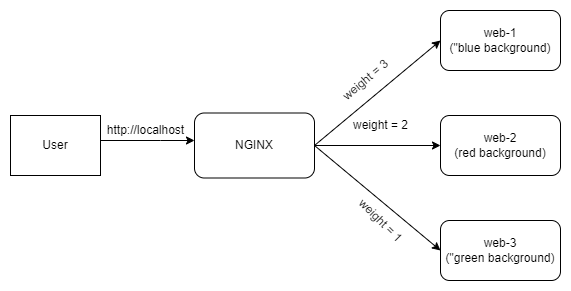
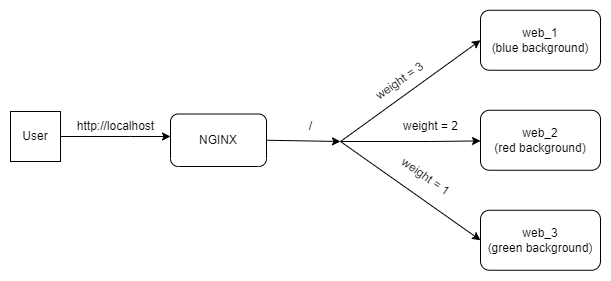
change pictures

diff --git a/1. Containerization/NguyenManhCuong/README.md b/1. Containerization/NguyenManhCuong/README.md
@@ -336,8 +336,8 @@ CMD ["python3", "app.py"]
 ```
 **The Dockerfile provided includes a few optimization techniques:**
 
-- <p align = "justify">This Dockerfile sets up a <strong>multi-stage</strong> build process. The first stage sets up the database tier, while the second stage sets up the web application tier. Using multi-stage builds like this can help keep the resulting Docker image small and efficient. The first stage is only used to <em>initialize</em> the database and is not included in the final image, so the final image only includes the necessary components to run the web application.</p>
-- <p align = "justify"><strong>Lightweight base image</strong>: The Dockerfile uses the <code>python:3.9-alpine3.17</code> base image, which is a lightweight version of the Python 3.9 image. This helps reduce the size of the resulting Docker image.</p>
+- <p align = "justify">This Dockerfile sets up a <strong>multi-stage</strong> build process. The first stage sets up the database tier, while the second stage sets up the web application tier. Using multi-stage builds like this can help keep the resulting Docker image small and efficient. The first stage is only used to <em>initialize</em> the database and is not included in the final image, so the final image only includes the necessary components to run the web application. </p>
+- <p align = "justify"><strong>Lightweight base image</strong>: The Dockerfile uses the <code>python:3.9-alpine3.17</code> base image, which is a lightweight version of the Python 3.9 image. This helps reduce the size of the resulting Docker image. In Docker Hub images <strong>python:3.9-alpine</strong> and <strong>python:3.9-alpine3.17</strong> have the same size, but the latter specifies the exact version of Alpine Linux used (version 3.17). This helps ensure stability and compatibility, reducing the risk of unexpected behavior. Using a specific version also aids reproducibility by ensuring consistent behavior across different environments.</p>
 - <p align = "justify"><strong>Use caching</strong>: Firsly copy the <code>requirement.txt</code> file into the container, This is because this file is unlikely to change frequently, so Docker can use the cached version from a previous build if it hasn't changed. The <code>COPY init.py init.py</code> and <code>COPY . .</code> commands will copy neccessary and frequently changed code into the container. It can save time and improve build times.</p>
 - <p align = "justify"><strong>Use the local cache when installing the specified packages</strong>: When installing dependencies using pip, the <code>--no-cache-dir</code> flag is used. This flag tells pip not to use the local cache when installing packages, which can help reduce the size of the Docker image.</p>
 - <p align = "justify"><strong>Remove unnecessary files</strong>: After installing dependencies using <code>pip</code>, the <code>rm</code> command is used to remove the <code>requirement.txt</code> file. This helps reduce the size of the Docker image by removing unnecessary files.
@@ -387,10 +387,8 @@ CMD ["python3", "app.py"]
 
 <p align = "center">
 <img src = "./images/loadbalancer.png" width = 500 height = 300> 
-<br>Picture 9. Reverse proxy using Nginx.
+<br>Picture 9. Load-balancer using Nginx.
 </p>
-
-
 
 **Docker-compose configuration**
 
@@ -402,20 +400,20 @@ CMD ["python3", "app.py"]
             container_name: mongodb
             restart: unless-stopped
             environment:
-            MONGO_DATABASE: flask
+                MONGO_DATABASE: flask
             ports:
-            - "27017:27017"
+                - "27017:27017"
             volumes:
-            - ./database:/data/db
+                - ./database:/data/db
             networks:
-            - backend
+                - backend
     ```
 
     - <p align = "justify"><code>image: mongo:5.0.17</code>:  The <strong>smallest</strong> official image for <strong>MongoDB version 5.0</strong> is <code>mongo:5.0.17</code>, which can be found on Docker Hub.</p>
     - <p align = "justify"><code>restart</code>: Specifies the restart policy for the container. In this case, the container will be restarted unless explicitly stopped.</p>
-    - <p align = "justify"><code>environment</code>: Defines environment variables that will be passed to the container at runtime. In this case, we are setting the "MONGO_DATABASE" variable to "flask", which will be used to create a new database with the given name.</p>
-    - <p align = "justify"><code>volumes</code>: Allows us to mount a host directory or a named volume as a data volume inside the container. In this case, we are mounting the local directory "./database" to "/data/db" inside the container, which will persist the database data even if the container is removed.</p>
-    - <p align = "justify"><code>networks</code>: Specifies the network mode for the container. In this case, the container will be attached to the "backend" network, which we define later in the configuration.</p>
+    - <p align = "justify"><code>environment</code>: Defines environment variables that will be passed to the container at runtime. In this case, we are setting the <code>MONGO_DATABASE</code> variable to <code>flask</code>, which will be used to create a new database with the given name.</p>
+    - <p align = "justify"><code>volumes</code>: Allows us to mount a host directory or a named volume as a data volume inside the container. In this case, we are mounting the local directory <code>./database</code> to <code>/data/db</code> inside the container, which will persist the database data even if the container is removed.</p>
+    - <p align = "justify"><code>networks</code>: Specifies the network mode for the container. In this case, the container will be attached to the <code>backend</code> network, which we define later in the configuration.</p>
 
 - **`web` service**:
   
@@ -425,52 +423,52 @@ CMD ["python3", "app.py"]
             container_name: flask_1
             restart: unless-stopped
             environment:
-            MONGODB_DATABASE: flask
-            MONGODB_HOSTNAME: db
-            COLOR: "#003366"
+                MONGODB_DATABASE: flask
+                MONGODB_HOSTNAME: db
+                COLOR: "#003366"
             ports:
-            - "5000:5000"
+                - "5000:5000"
             networks:
-            - frontend
-            - backend
+                - frontend
+                - backend
             depends_on:
-            - db
+                - db
 
         web_2:
             build: ./web
             container_name: flask_2
             restart: unless-stopped
             environment:
-            MONGODB_DATABASE: flask
-            MONGODB_HOSTNAME: db
-            COLOR: "#ff0033"
+                MONGODB_DATABASE: flask
+                MONGODB_HOSTNAME: db
+                COLOR: "#ff0033"
             ports:
-            - "5001:5000"
+                - "5001:5000"
             networks:
-            - frontend
-            - backend
+                - frontend
+                - backend
             depends_on:
-            - db
+                - db
 
         web_3:
             build: ./web
             container_name: flask_3
             restart: unless-stopped
             environment:
-            MONGODB_DATABASE: flask
-            MONGODB_HOSTNAME: db
-            COLOR: "#00ff00"
+                MONGODB_DATABASE: flask
+                MONGODB_HOSTNAME: db
+                COLOR: "#00ff00"
             ports:
-            - "5002:5000"
+                - "5002:5000"
             networks:
-            - frontend
-            - backend
+                - frontend
+                - backend
             depends_on:
-            - db
+                - db
     ```
 
     - <p align = "justify">These are the definitions of three services, <code>web_1</code>, <code>web_2</code>, and <code>web_3</code>, which are built from a Dockerfile located in the <code>./web</code> directory and expose their application on ports <code>5000</code>, <code>5001</code>, and <code>5002</code>, respectively. Each of these services is dependent on a database service named <code>db</code> and is connected to two networks, <code>frontend</code> and <code>backend</code>.</p>
-    - <p align = "justify">Each of these services defines three environment variables: <code>MONGODB_DATABASE</code>, which specifies the name of the database that the Flask application will connect to; <code>MONGODB_HOSTNAME</code>, which specifies the hostname of the MongoDB instance that the Flask application will connect to (in this case, db); and <code>COLOR</code>, which specifies the color of the Flask application's background.</p>
+    - <p align = "justify">Each of these services defines three environment variables: <code>MONGODB_DATABASE</code>, which specifies the name of the database that the Flask application will connect to; <code>MONGODB_HOSTNAME</code>, which specifies the hostname of the MongoDB instance that the Flask application will connect to (in this case, <code>db</code>); and <code>COLOR</code>, which specifies the color of the Flask application's background.</p>
     - <p align = "justify">The <code>depends_on</code> field specifies that the db service must be started before the <code>web_1</code>, <code>web_2</code>, and <code>web_3</code> services can be started.</p>
 
 - **`nginx` service (server)**:
@@ -480,35 +478,35 @@ CMD ["python3", "app.py"]
             image: nginx:1.22.0-alpine
             container_name: nginx
             ports:
-            - "80:80"
+                - "80:80"
             volumes:
-            - ./nginx/nginx.conf:/etc/nginx/conf.d/default.conf
+                - ./nginx/nginx.conf:/etc/nginx/conf.d/default.conf
             networks:
-            - frontend
+                - frontend
             depends_on:
-            - web_1
-            - web_2
-            - web_3
+                - web_1
+                - web_2
+                - web_3
     ```
 
     - <p align = "justify"><code>image: nginx:1.22.0-alpine</code>: Uses the <code>nginx:1.22.0-alpine</code> Docker image, which is the most lightweight version of the popular Nginx web server.</p>
     - <p align = "justify"><code>volumes</code>: This mounts the <code>./nginx/nginx.conf</code> file on the host to the container's <code>/etc/nginx/conf.d/default.conf</code> file, which is the Nginx configuration file.</p>
     - <p align = "justify"><code>networks</code>: Sets the networks for the container will connect to. In this case, it is only connected to the frontend network.</p>
-    - <p align = "justify"><code>volumes</code>: Allows us to mount a host directory or a named volume as a data volume inside the container. In this case, we are mounting the local directory "./database" to "/data/db" inside the container, which will persist the database data even if the container is removed.</p>
-    - <p align = "justify"><code>depends_on</code>: This specifies the container dependencies for the Nginx service. In this case, it depends on the three Flask services (web_1, web_2, and web_3) to be started before it can start.</p>
+    - <p align = "justify"><code>depends_on</code>: This specifies the container dependencies for the Nginx service. In this case, it depends on the three Flask services (<code>web_1</code>, <code>web_2</code>, and <code>web_3</code>) to be started before it can start.</p>
 
 - **`networks` section**:
 
     ```yaml
-        networks:
-        frontend:
-            driver: bridge
-        backend:
-            driver: bridge
+    networks:
+    frontend:
+        driver: bridge
+    backend:
+        driver: bridge
     ```
-  <p align = "justify">The networks section defines two networks: <strong>frontend</strong> and </strong> <strong>backend</strong>. The frontend network is used by the Nginx container and the Flask containers to communicate with each other. The backend network is used by the Flask containers to communicate with the MongoDB container. Both networks use the <em>bridge</em> driver, which is the default driver for Docker networks.</p>
 
-  <p align = "justify">By using custom networks, you can isolate the communication between containers, control the traffic flow, and provide a secure environment for your application.</p>
+    <p align = "justify">The networks section defines two networks: <strong>frontend</strong> and <strong>backend</strong>. The frontend network is used by the Nginx container and the Flask containers to communicate with each other. The backend network is used by the Flask containers to communicate with the MongoDB container. Both networks use the <em>bridge</em> driver, which is the default driver for Docker networks.</p>
+
+    <p align = "justify">By using custom networks, you can isolate the communication between containers, control the traffic flow, and provide a secure environment for your application. Using custom networks in Docker can provide an additional layer of security to your application stack by limiting access to sensitive resources and controlling how containers communicate with each other.</p>
 
 ## **3. Result**
 
